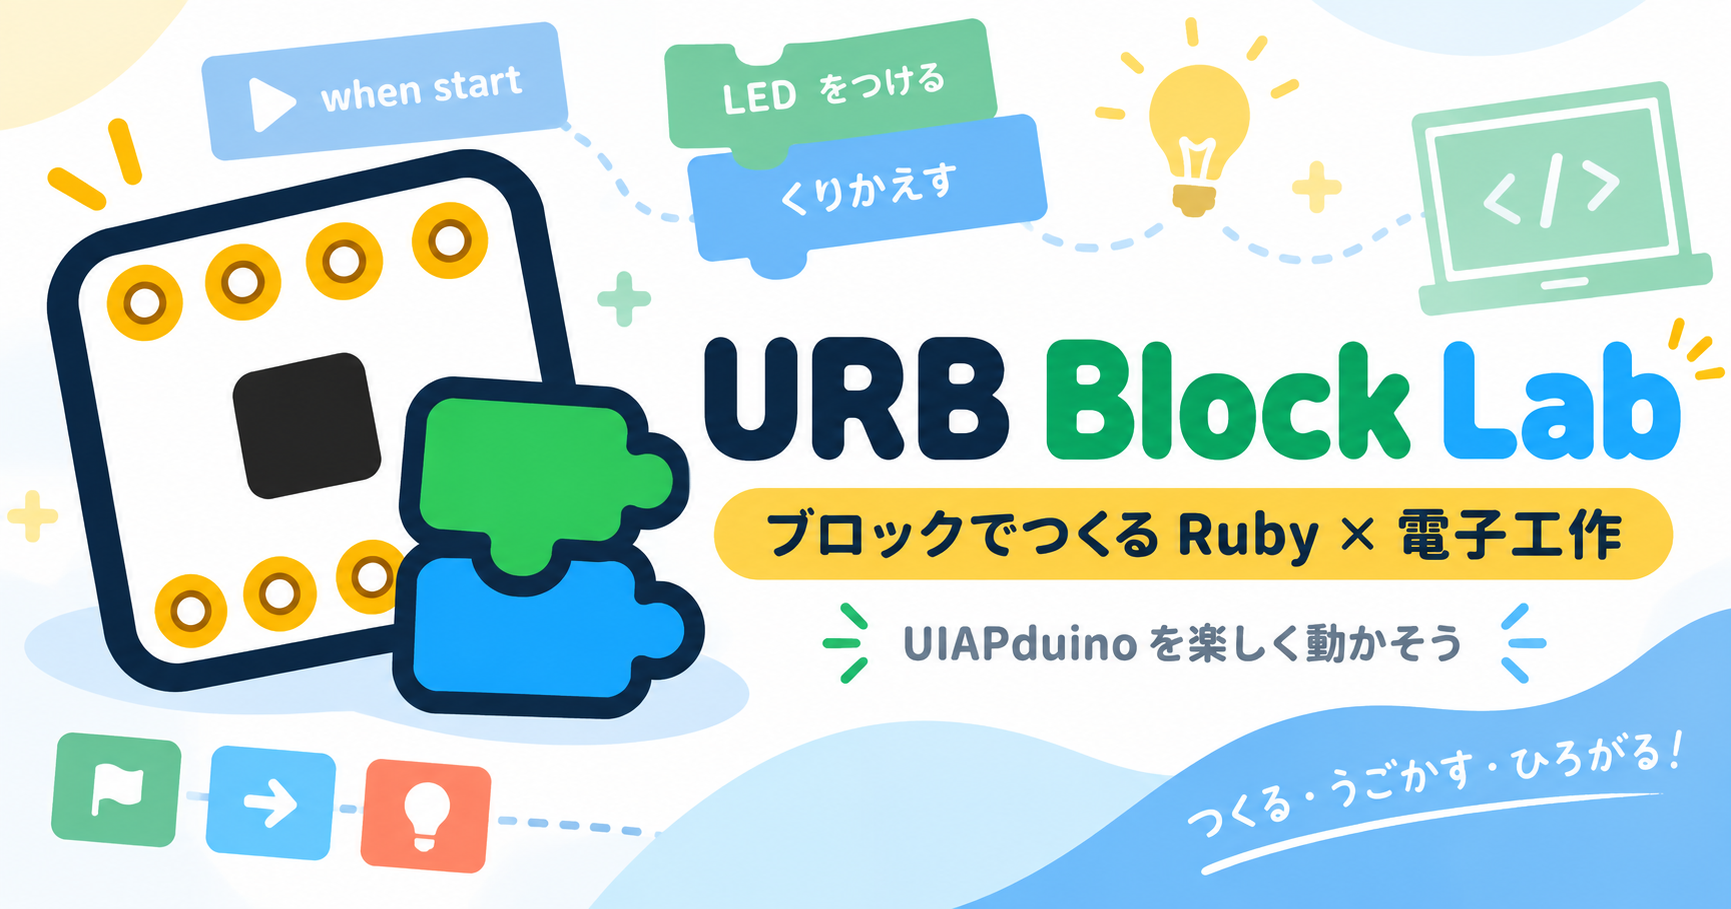
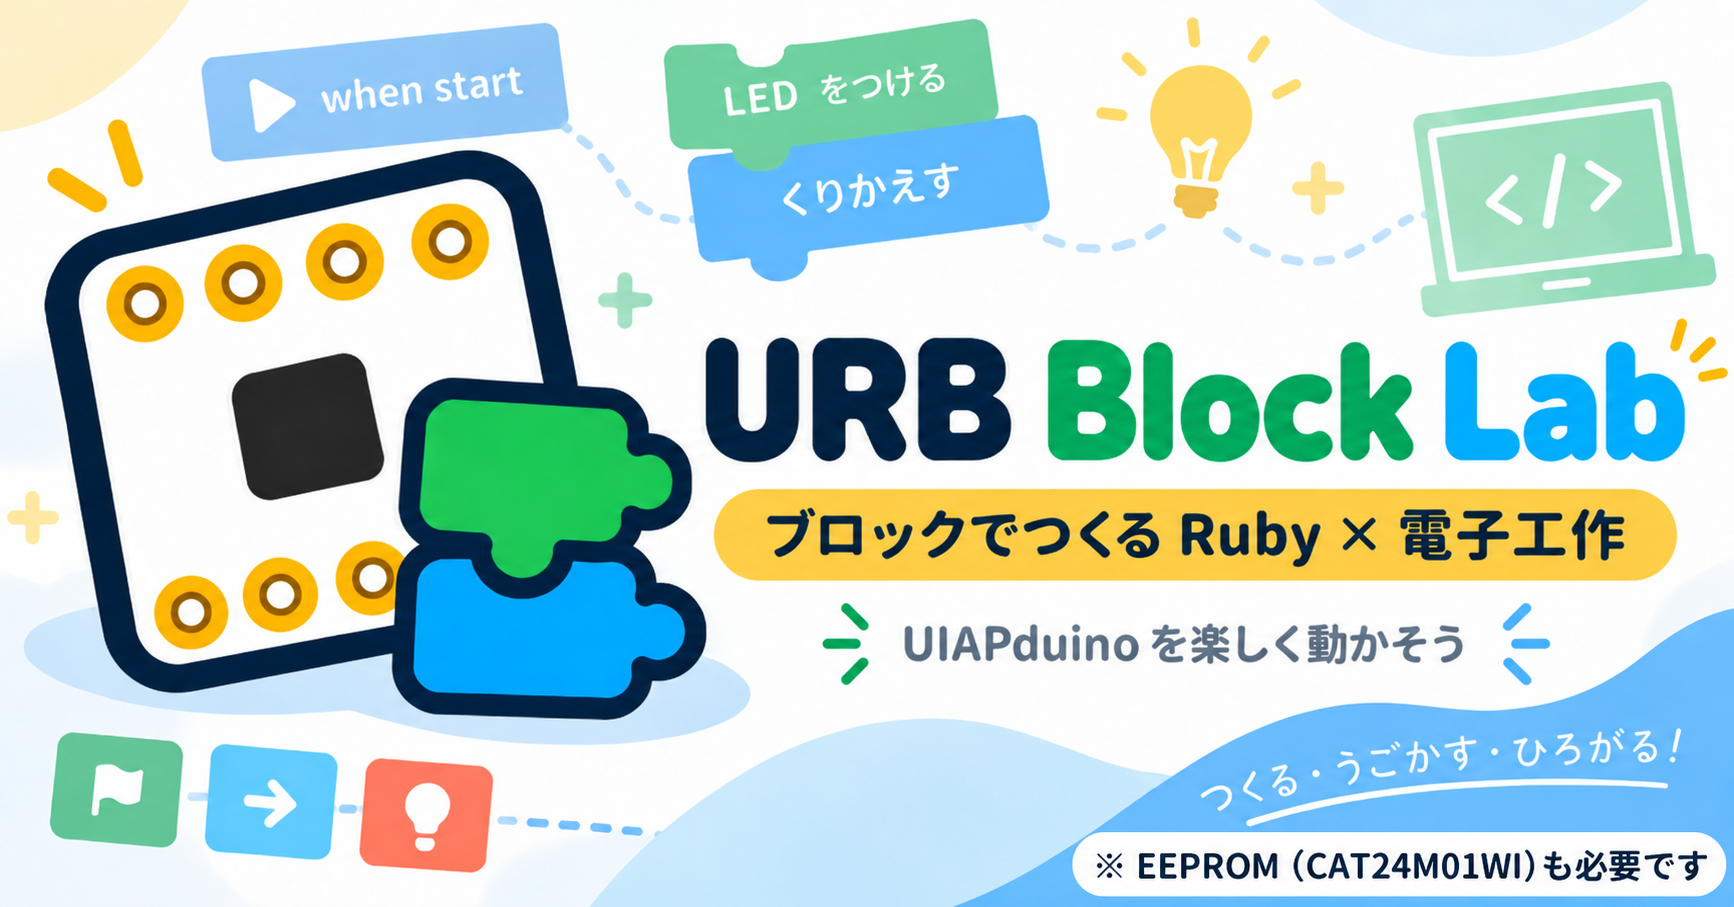
docs: URB Block Lab のカードに EEPROM が要ることを出す
UIAPduino だけで使えると勘違いされないよう、SNS のカードに条件を出す。

- バナーの右下に「※ EEPROM（CAT24M01WI）も必要です」を足した。
  もとの 3 つの文は正しいので書き換えず、注意書きだけを追加
- og:description と description を、必要なものを書いた文にした
- 絵の大きさが変わったので og:image:width / height を実寸 1734×907 に直し、
  og:image:alt に絵の中の文言を写した
- README から「URB Block 基板」を削除（3 か所）。誰も使っていない呼び方で、
  初めて見る人がつまずくため、載っている石で言うようにした

ページの画面・「基板に書き込む」・「⚙ 準備」・index.html は変更していない。

diff --git a/docs/uiapruby-block.html b/docs/uiapruby-block.html
@@ -7,17 +7,20 @@
   <link rel="icon" href="images/urb-block-icon-32.png" type="image/png" sizes="32x32">
   <title>URB Block Lab | UIAPruby</title>
   <!-- SNS にリンクを貼ったときのカード（JS は動かないので、上の title とここが読まれる） -->
-  <meta name="description" content="ブロックでつくる Ruby × 電子工作。UIAPduino を楽しく動かそう">
+  <!-- 説明は「何ができるか」だけにせず、動く基板を必ず書く。カードだけ見て
+       UIAPduino 単体で動くと思われると、買ってから気づくことになる。 -->
+  <meta name="description" content="ブロックをつなぐと Ruby になって、基板の中で動きます。動かすには UIAPduino と EEPROM（CAT24M01WI）が必要です。">
   <meta property="og:type" content="website">
   <meta property="og:locale" content="ja_JP">
   <meta property="og:site_name" content="UIAPruby">
   <meta property="og:title" content="URB Block Lab | UIAPruby">
-  <meta property="og:description" content="ブロックでつくる Ruby × 電子工作。UIAPduino を楽しく動かそう">
+  <meta property="og:description" content="ブロックをつなぐと Ruby になって、基板の中で動きます。動かすには UIAPduino と EEPROM（CAT24M01WI）が必要です。">
   <meta property="og:url" content="https://tarosay.github.io/uiap-hid-web/uiapruby-block.html">
   <meta property="og:image" content="https://tarosay.github.io/uiap-hid-web/images/urb_block_banner.png">
-  <meta property="og:image:width" content="1731">
-  <meta property="og:image:height" content="909">
-  <meta property="og:image:alt" content="URB Block Lab — ブロックでつくる Ruby × 電子工作">
+  <meta property="og:image:width" content="1734">
+  <meta property="og:image:height" content="907">
+  <!-- alt は絵の中の文字をそのまま写す。絵が出ない人にも ※ の一行が届くように -->
+  <meta property="og:image:alt" content="URB Block Lab — ブロックでつくる Ruby × 電子工作。UIAPduino を楽しく動かそう。※ EEPROM（CAT24M01WI）も必要です">
   <meta name="twitter:card" content="summary_large_image">
   <style>
     /* ────────────────────────────────────────────────────────────
